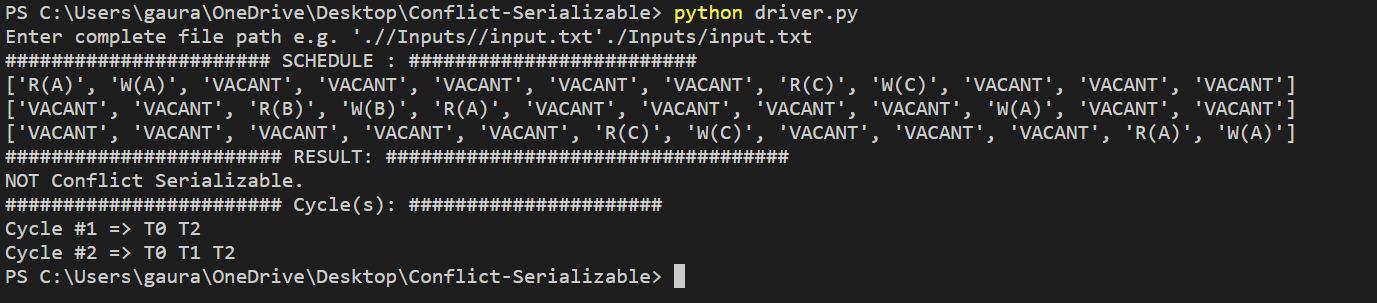
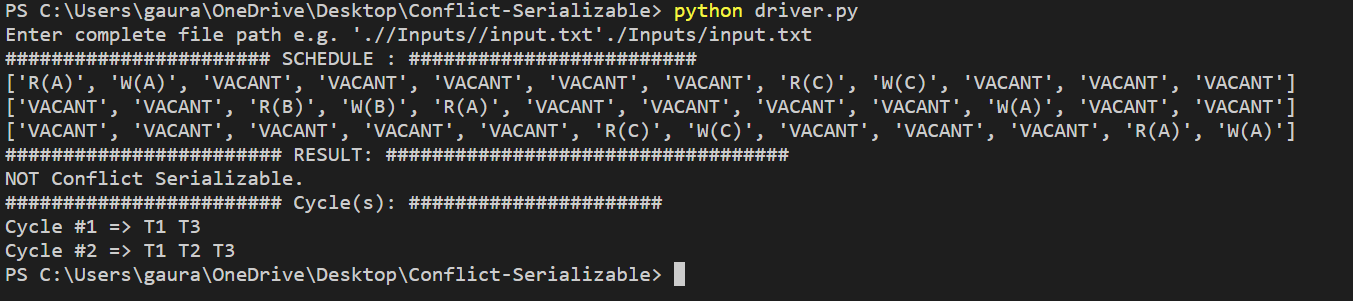
commit4

Changed region(s): [[0.0, 0.0, 0.9623, 0.5382], [0.0, 0.5681, 0.4967, 0.7774], [0.0, 0.8073, 0.5277, 0.9568]]

diff --git a/cycle_printer.py b/cycle_printer.py
@@ -93,7 +93,7 @@ def cycle_printing_fn(graph):
     for cycle in simple_cycles(graph):
         # Make plausible string
         for ele in cycle:
-            string += "T"+str(ele)+" "
+            string += "T"+str(ele+1)+" "
         print("Cycle #{0}".format(cycle_no+1)+" => "+string)
         cycle_no += 1
         string = ""     # reset string for next cycle
